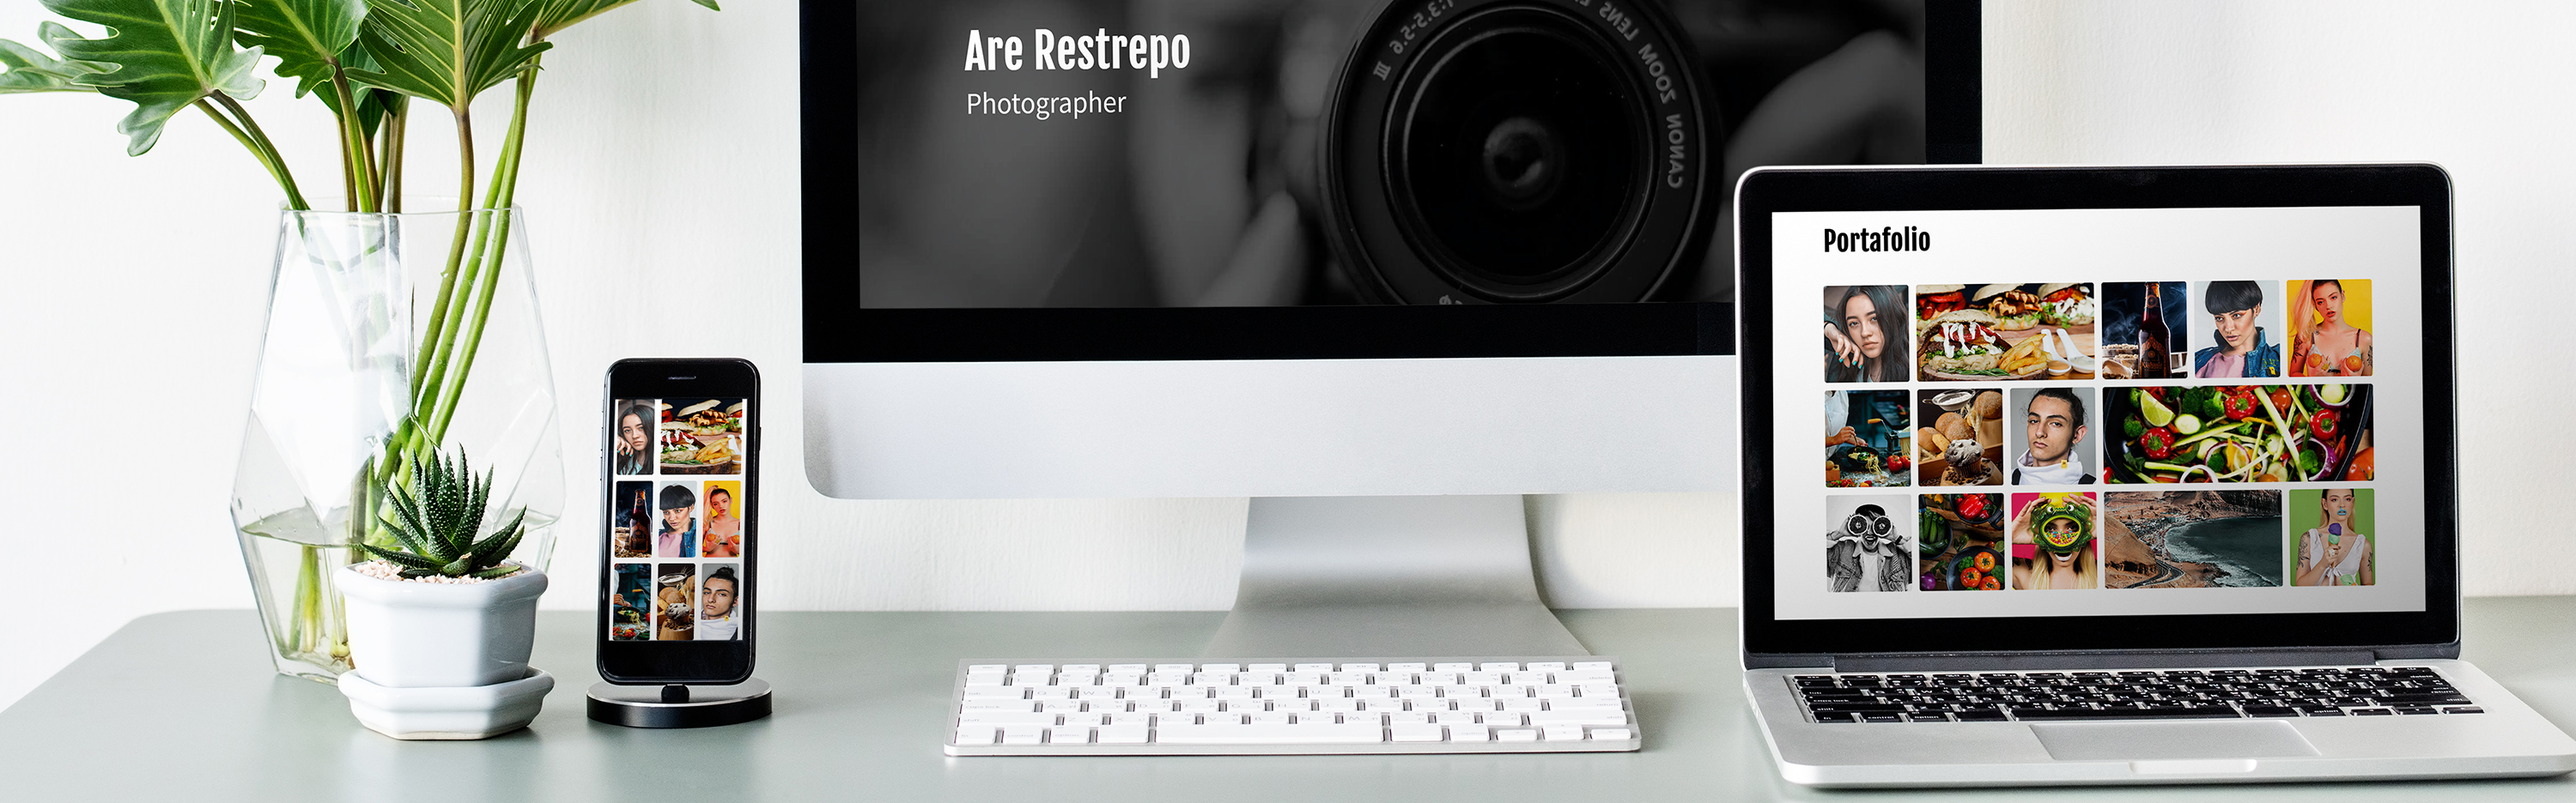
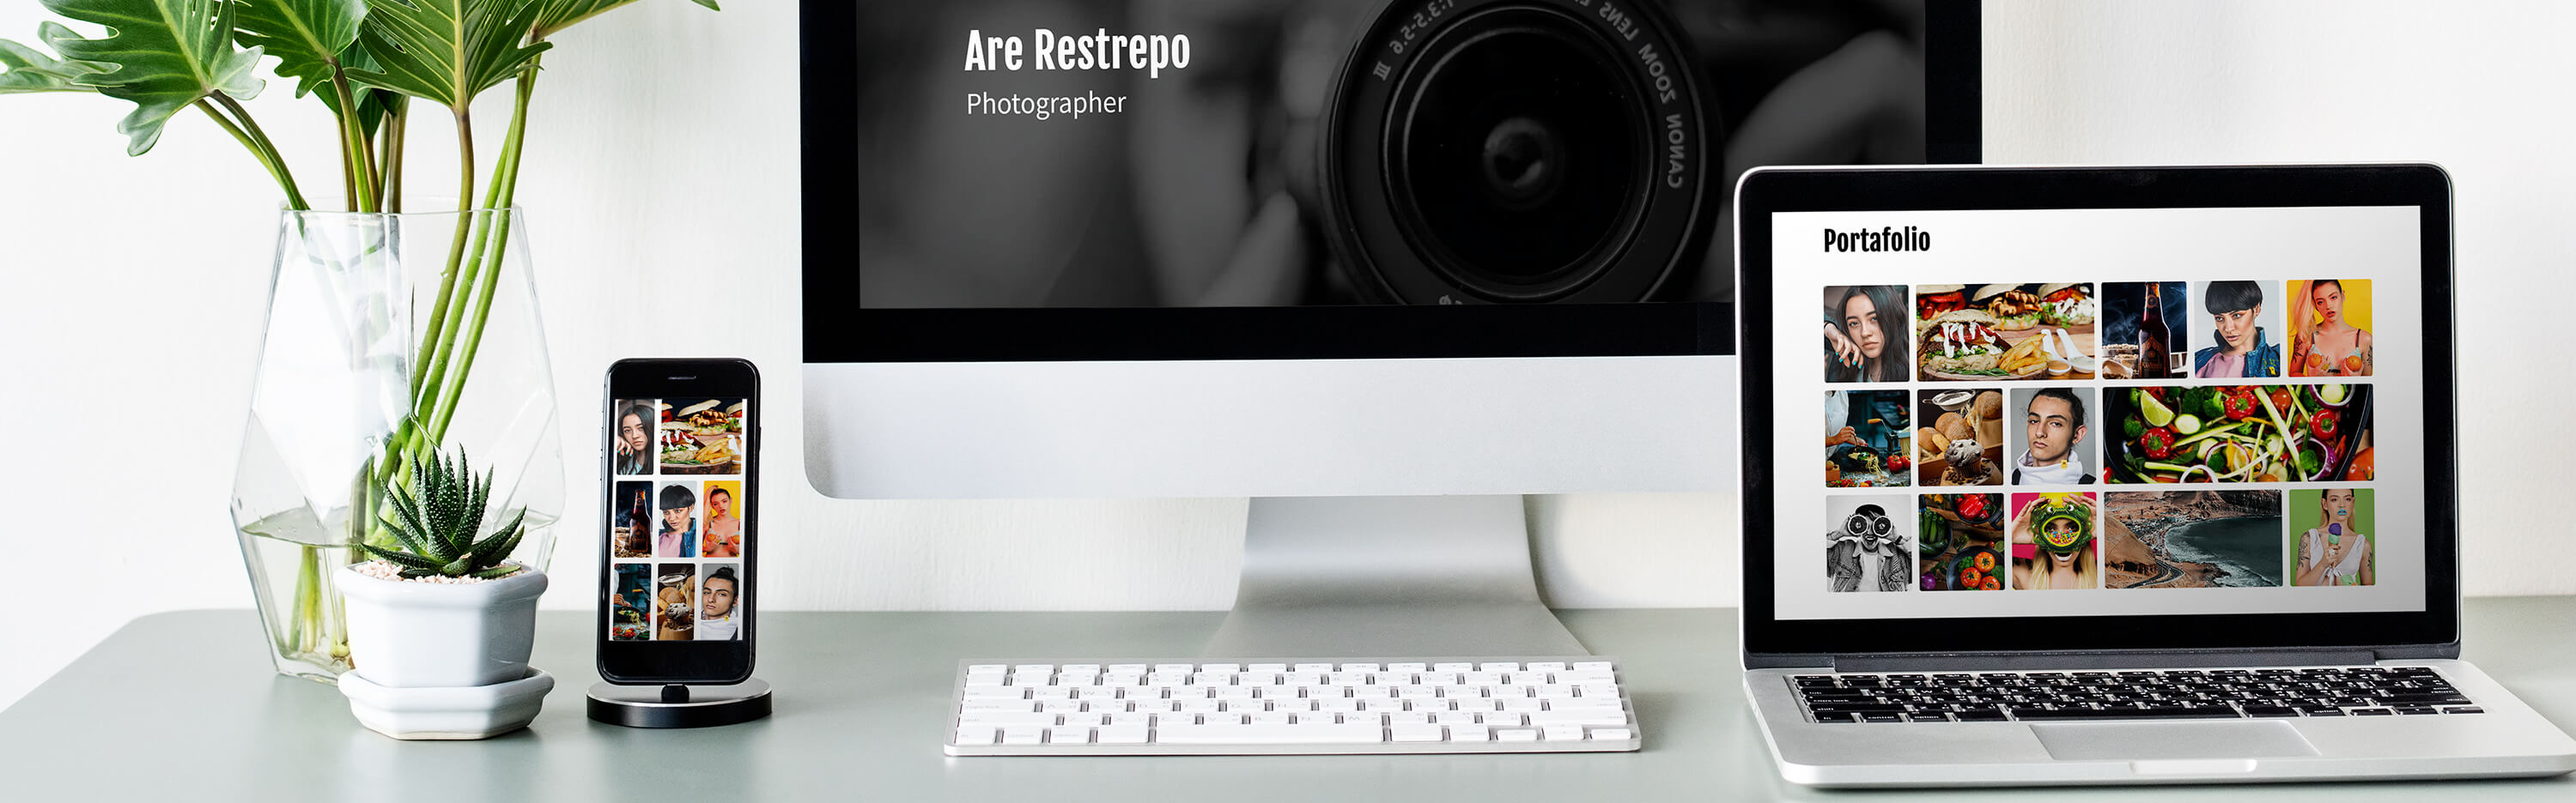
actualizacion
actualizacion portafolio

Changed region(s): [[0.775, 0.6506, 0.806, 0.6816], [0.744, 0.4028, 0.775, 0.4338], [0.248, 0.5267, 0.279, 0.5577]]

diff --git a/index.html b/index.html
@@ -42,7 +42,7 @@
             Hola, Soy <strong>Alejandra Acosta</strong>
         </h1>
         <p class="section__subtitle section__subtitle--intro">front-end & BI dev</p>
-        <img src="img/img1.jpg" alt="a picture of Jane Smith smiling" class="intro__img">
+        <img src="img/img1.jpg" alt="Alejandra sonriendo" class="intro__img">
     </section>
 
 
@@ -53,22 +53,21 @@
             <div class="skill">
                 <h3>Front-end</h3>
                 <p>Desarrollo y maquetación web con HTML, CSS, conocimientos de diseño responsive utilizando flexbox, css grid y mediaquerys, SASS
-                    JavaScript, creación de plantillas para wordpress, diseño de webs en adobe XD  </p>
+                    JavaScript básico, creación de plantillas para wordpress, diseño de webs en adobe XD  </p>
             </div> <!-- / service -->
 
             <div class="skill">
                 <h3>Back-End</h3>
-                <p>Lorem ipsum dolor sit amet, consectetur adipiscing elit, sed do eiusmod tempor incididunt ut labore
-                    et dolore magna aliqua. Ut enim ad minim veniam, quis nostrud exercitation ullamco laboris nisi ut
-                    aliquip ex ea commodo consequat.</p>
+                <p>Conocimientos básicos en programación orientada a objetos con java, creación de pruebas, creación de bases de datos, modelado de BD, actualmente estoy
+                    fortaleciedo mis habilidades aprendiendo backend con react.
+                </p>
             </div> <!-- / service -->
 
             <div class="skill">
                 <h3>Bussiness Inteligence</h3>
-                <p>Realizaciòn de procesos de extracciòn,
-                    transformaciòn y  carga de datos con la herramienta Qlikview, he desarrollado
+                <p>Extracción,
+                    transformaciòn y  carga de datos con la herramienta Qlikview, 
                     modelos para el análisis de datos, construcciòn de tableros de control, implementaciòn de indicadores.
-                    He trabajado para clientes del sector  salud como lo son Emssanar, Comfamiliar Nariño y para el sector de las ARL con Positiva.
                    </p>
             </div> <!-- / service -->
         </div> <!-- / services -->
@@ -83,11 +82,15 @@
         <p class="section__subtitle section__subtitle--about">Desarrolladora front-end & BI</p>
 
         <div class="about-me__body">
-            <p>Lorem ipsum dolor sit amet, consectetur adipiscing elit, sed do eiusmod tempor incididunt ut labore et dolore magna aliqua. Ut enim ad minim veniam, quis nostrud exercitation ullamco laboris nisi ut aliquip ex ea commodo consequat.</p>
-            <p>Lorem ipsum dolor sit amet, consectetur adipiscing elit, sed do eiusmod tempor incididunt ut labore et dolore magna aliqua. Ut enim ad minim veniam, quis nostrud exercitation ullamco laboris nisi ut aliquip ex ea commodo consequat.</p>
+            <p>Mi nombre es Alejandra, inicie como desarrolladora de inteligencia de negocios trabajando con Qlikview, luego de cuatro años tome la desición de reorientar mi carrera profesional
+                con el animo de continuar aprendiendo, me gusta mucho el diseño y  decidi enfocarme en el desarrollo front- end , uno de mis pasatiempos preferidos es sentarme a realizar desafios
+                de maquetación web o retos que permitan mejorar mis habilidades.
+            </p>
+            <p> Soy una persona muy autodidacta y constantemente estoy en la necesidad de aprender cosas nuevas, Me gusta leer, los animales,
+                montar bicicleta, viajar y las artes plasticas.</p>
         </div>
 
-        <img src="img/img2.jpg" alt="Jane leaning against a bus" class="about-me__img">
+        <img src="img/img2.jpg" alt="Alejandra en la playa" class="about-me__img">
     </section>
 
     <!-- My Work -->
@@ -97,95 +100,48 @@
 
         <div class="portfolio">
             <!-- Portfolio item 01 -->
-         <div class="portfolio">  
-            <a href="item-portfolio.html" class="portfolio__item" rel="noopener">
-                <img src="img/portfolio-01.jpg" alt="" class="portfolio__img">
-                
-            </a>
-            <p>Huddle Landing Page</p>
-        </div>
-           
-
-            <!-- Portfolio item 02 -->
             <div class="portfolio">  
                 <a href="item-portfolio-ana.html" class="portfolio__item" rel="noopener">
                     <img src="img/portfolio-02.jpg" alt="" class="portfolio__img">
                 </a>
                 <p>Ana Photographer Portafolio</p>
             </div>
-               
 
-            <!-- Portfolio item 03 -->
+            <!-- Portfolio item 02 -->
+            
             <div class="portfolio">  
-                <a href="item-portfolio.html" class="portfolio__item" rel="noopener">
-                    <img src="img/portfolio-03.jpg" alt="" class="portfolio__img">
+                <a href="item-portfolio-landing.html" class="portfolio__item" rel="noopener">
+                    <img src="img/portfolio-01.jpg" alt="huddle landing" class="portfolio__img">
                 </a>
-                <p>Lorem ipsum</p>
+                <p>Huddle Landing page</p>
             </div>
-               
-            <!-- Portfolio item 04 -->
+      <!-- Portfolio item 03 -->
+            
+      <div class="portfolio">  
+        <a href="item-portfolio-momentum.html" class="portfolio__item" rel="noopener">
+            <img src="img/portfolio-03.jpg" alt="proyecto momentum" class="portfolio__img">
+        </a>
+        <p>Momentum</p>
+    </div>
+              <!-- Portfolio item 04 -->
+            
+          
+            
+
+
             <div class="portfolio">  
-                <a href="item-portfolio.html" class="portfolio__item" rel="noopener">
-                    <img src="img/portfolio-04.jpg" alt="" class="portfolio__img">
+                <a href="item-portfolio-404.html" class="portfolio__item" rel="noopener">
+                    <img src="img/portfolio-04.jpg" alt="Ejercicios varios" class="portfolio__img">
                 </a>
-                <p>Lorem ipsum</p>
+                <p>Ejercicios Varios</p>
             </div>
-               
 
-            <!-- Portfolio item 05 -->
-            <div class="portfolio">  
-                <a href="item-portfolio.html" class="portfolio__item" rel="noopener">
-                    <img src="img/portfolio-05.jpg" alt="" class="portfolio__img">
-                </a>
-                <p>Lorem ipsum</p>
-            </div>
-               
+          
+        
+        
+        
 
-            <!-- Portfolio item 06 -->
-            <div class="portfolio">  
-                <a href="item-portfolio.html" class="portfolio__item" rel="noopener">
-                    <img src="img/portfolio-06.jpg" alt="" class="portfolio__img">
-                </a>
-                <p>Lorem ipsum</p>
-            </div>
-               
-
-            <!-- Portfolio item 07 -->
-            <div class="portfolio">  
-                <a href="item-portfolio.html" class="portfolio__item" rel="noopener">
-                    <img src="img/portfolio-07.jpg" alt="" class="portfolio__img">
-                </a>
-                <p>Lorem ipsum</p>
-            </div>
-               
-
-            <!-- Portfolio item 08 -->
-            <div class="portfolio">  
-                <a href="item-portfolio.html" class="portfolio__item" rel="noopener">
-                    <img src="img/portfolio-08.jpg" alt="" class="portfolio__img">
-                </a>
-                <p>Lorem ipsum</p>
-            </div>
-               
-
-            <!-- Portfolio item 09 -->
-            <div class="portfolio">  
-                <a href="item-portfolio.html" class="portfolio__item" rel="noopener">
-                    <img src="img/portfolio-09.jpg" alt="" class="portfolio__img">
-                </a>
-                <p>Lorem ipsum</p>
-            </div>
-               
-
-             <!-- Portfolio item 10 -->
-             <div class="portfolio">  
-                <a href="item-portfolio.html" class="portfolio__item" rel="noopener">
-                    <img src="img/portfolio-10.jpg" alt="" class="portfolio__img">
-                </a>
-                <p>Lorem ipsum</p>
-            </div>
-               
-
+        
     
         </div>
     </section>

diff --git a/item-portfolio-404.html b/item-portfolio-404.html
@@ -1,0 +1,66 @@
+<!DOCTYPE html>
+<html lang="en">
+
+<head>
+    <meta charset="UTF-8">
+    <meta name="viewport" content="width=device-width, initial-scale=1.0">
+    <title>Alejandra Portfolio Website</title>
+    <link rel="stylesheet" href="https://cdnjs.cloudflare.com/ajax/libs/normalize/7.0.0/normalize.min.css">
+    <link rel="stylesheet" href="https://cdnjs.cloudflare.com/ajax/libs/font-awesome/5.11.2/css/all.css"
+        integrity="sha256-46qynGAkLSFpVbEBog43gvNhfrOj+BmwXdxFgVK/Kvc=" crossorigin="anonymous" />
+
+    <link href="https://fonts.googleapis.com/css?family=Source+Code+Pro:400,900|Source+Sans+Pro:300,900&display=swap"
+        rel="stylesheet">
+
+    <link rel="stylesheet" href="css/portfolio.css">
+
+</head>
+
+<body>
+    <header>
+        <div class="logo">
+            <img src="img/logo2.png" alt="Logo alejandra">
+        </div>
+        <button class="nav-toggle" aria-label="toggle navigation">
+            <span class="hamburger"></span>
+        </button>
+        <nav class="nav">
+            <ul class="nav__list">
+                <li class="nav__item"><a href="index.html" class="nav__link">Home</a></li>
+                <li class="nav__item"><a href="index.html#skills" class="nav__link">Skills</a></li>
+                <li class="nav__item"><a href="index.html#about" class="nav__link">Acerca de mi</a></li>
+                <li class="nav__item"><a href="index.html#work" class="nav__link">Mi Trabajo</a></li>
+            </ul>
+        </nav>
+    </header>
+
+    <section class="intro">
+        <h1 class="section__title section__title--intro">
+            404<strong>Error Page</strong>
+        </h1>
+        <p class="section__subtitle section__subtitle--intro">Maquetacion HTML y CSS</p>
+        <img src="img/portfolio-04.jpg" alt="" class="intro__img">
+    </section>
+    
+    <div class="portfolio-item-individual">
+        <p>Pagina de error producto del desafio presentado en <a class= "link_Item_port"  href="https://devchallenges.io/challenges">DevChallenges</a></p>
+        <img src="img/portfolio-details-4.jpg" alt="pagina 404">
+        <p>Este es un desafio pequeño de la página Dev Challenges, esta desarrollada en HTML y CSS, teniendo en cuenta el diseño responsive responsive, esta publicada en el servidor de un servidor de despliegue continuo Netlify.</p>
+        <p>Puedes visualizar la página repositorio en  <a  class= "link_Item_port" href="https://app.netlify.com/sites/404errordevchallengeio/overview" target="_blank" rel="noopener">aquí</a>, también puedes ver el repositorio de <a class= "link_Item_port"  href="https://github.com/maebashiiceoctopus/404-Page" target="_blank" rel="noopener">Github</a> </p>
+    </div>
+    
+
+    <!-- Footer -->
+    <footer class="footer">
+        <ul class="social-list">
+            <li class="social-list__item"> <a href="https://codepen.io/maebashiiceoctopus" class="social-list__link" target="_blank" rel="noopener"><i class="fab fa-codepen"></i></a></li>
+            <li class="social-list__item"><a href="https://github.com/maebashiiceoctopus" class="social-list__link" target="_blank"rel="noopener"><i class="fab fa-github"></i></a></li>
+            <li class="social-list__item"> <a href="https://www.linkedin.com/in/aleacostaquin/" class="social-list__link" target="_blank"rel="noopener"><i class="fab fa-linkedin"></i></a></li>
+        </ul>
+    </footer>
+    
+    <script src="js/portfolio.js"></script>
+
+</body>
+
+</html>

diff --git a/item-portfolio-momentum.html b/item-portfolio-momentum.html
@@ -1,0 +1,68 @@
+<!DOCTYPE html>
+<html lang="en">
+
+<head>
+    <meta charset="UTF-8">
+    <meta name="viewport" content="width=device-width, initial-scale=1.0">
+    <title>Alejandra Portfolio Website</title>
+    <link rel="stylesheet" href="https://cdnjs.cloudflare.com/ajax/libs/normalize/7.0.0/normalize.min.css">
+    <link rel="stylesheet" href="https://cdnjs.cloudflare.com/ajax/libs/font-awesome/5.11.2/css/all.css"
+        integrity="sha256-46qynGAkLSFpVbEBog43gvNhfrOj+BmwXdxFgVK/Kvc=" crossorigin="anonymous" />
+
+    <link href="https://fonts.googleapis.com/css?family=Source+Code+Pro:400,900|Source+Sans+Pro:300,900&display=swap"
+        rel="stylesheet">
+
+    <link rel="stylesheet" href="css/portfolio.css">
+
+</head>
+
+<body>
+    <header>
+        <div class="logo">
+            <img src="img/logo2.png" alt="">
+        </div>
+        <button class="nav-toggle" aria-label="toggle navigation">
+            <span class="hamburger"></span>
+        </button>
+        <nav class="nav">
+            <ul class="nav__list">
+                <li class="nav__item"><a href="index.html" class="nav__link">Home</a></li>
+                <li class="nav__item"><a href="index.html#skills" class="nav__link">Skills</a></li>
+                <li class="nav__item"><a href="index.html#about" class="nav__link">Acerca de mi</a></li>
+                <li class="nav__item"><a href="index.html#work" class="nav__link">Mi Trabajo</a></li>
+            </ul>
+        </nav>
+    </header>
+
+    <section class="intro">
+        <h1 class="section__title section__title--intro">
+            Home Momentum<strong></strong>
+        </h1>
+        <p class="section__subtitle section__subtitle--intro">Maquetacion HTML y CSS</p>
+        <img src="img/portfolio-03.jpg" alt="momentum" class="intro__img">
+    </section>
+    
+    <div class="portfolio-item-individual">
+        <p>Tema personalizado en wordpress para la agencia de marketing digital momentum.
+        </p>
+        <img src="img/portfolio-details-3.jpg" alt="pagina momentum">
+        <p>Esta maqueta fue desarrollada inicialmente en HTML,CSS y JS, luego se realizo su paso a wordpress,
+            haciendo uso de php y advanced custom fields para garantizar edición de textos, imagenes etc.. sin afencación a los estilos pripuestos por cliente en maqueta. </p>
+        <p>Puedes visualizar la página   <a  class= "link_Item_port" href="https://momentums.000webhostapp.com/" target="_blank" rel="noopener">aquí</a></p>
+    </div>
+    
+
+    <!-- Footer -->
+    <footer class="footer">
+        <ul class="social-list">
+            <li class="social-list__item"> <a href="https://codepen.io/maebashiiceoctopus" class="social-list__link" target="_blank" rel="noopener"><i class="fab fa-codepen"></i></a></li>
+            <li class="social-list__item"><a href="https://github.com/maebashiiceoctopus" class="social-list__link" target="_blank"rel="noopener"><i class="fab fa-github"></i></a></li>
+            <li class="social-list__item"> <a href="https://www.linkedin.com/in/aleacostaquin/" class="social-list__link" target="_blank"rel="noopener"><i class="fab fa-linkedin"></i></a></li>
+        </ul>
+    </footer>
+    
+    <script src="js/portfolio.js"></script>
+
+</body>
+
+</html>

diff --git a/css/portfolio.css b/css/portfolio.css
@@ -57,7 +57,7 @@ section {
 
 img {
     display: block;
-    max-width: 100%;
+    width: 100%;
 }
 
 strong {
@@ -403,10 +403,9 @@ header {
 
 .portfolio {
     display: grid;
-    grid-template-columns: repeat(auto-fit, minmax(200px, 1fr));
+    grid-template-columns: repeat(auto-fit, minmax(300px, 1fr));
     grid-row-gap: .5em;
     grid-column-gap: .5em;
-
 }
 
 .portfolio__item {
